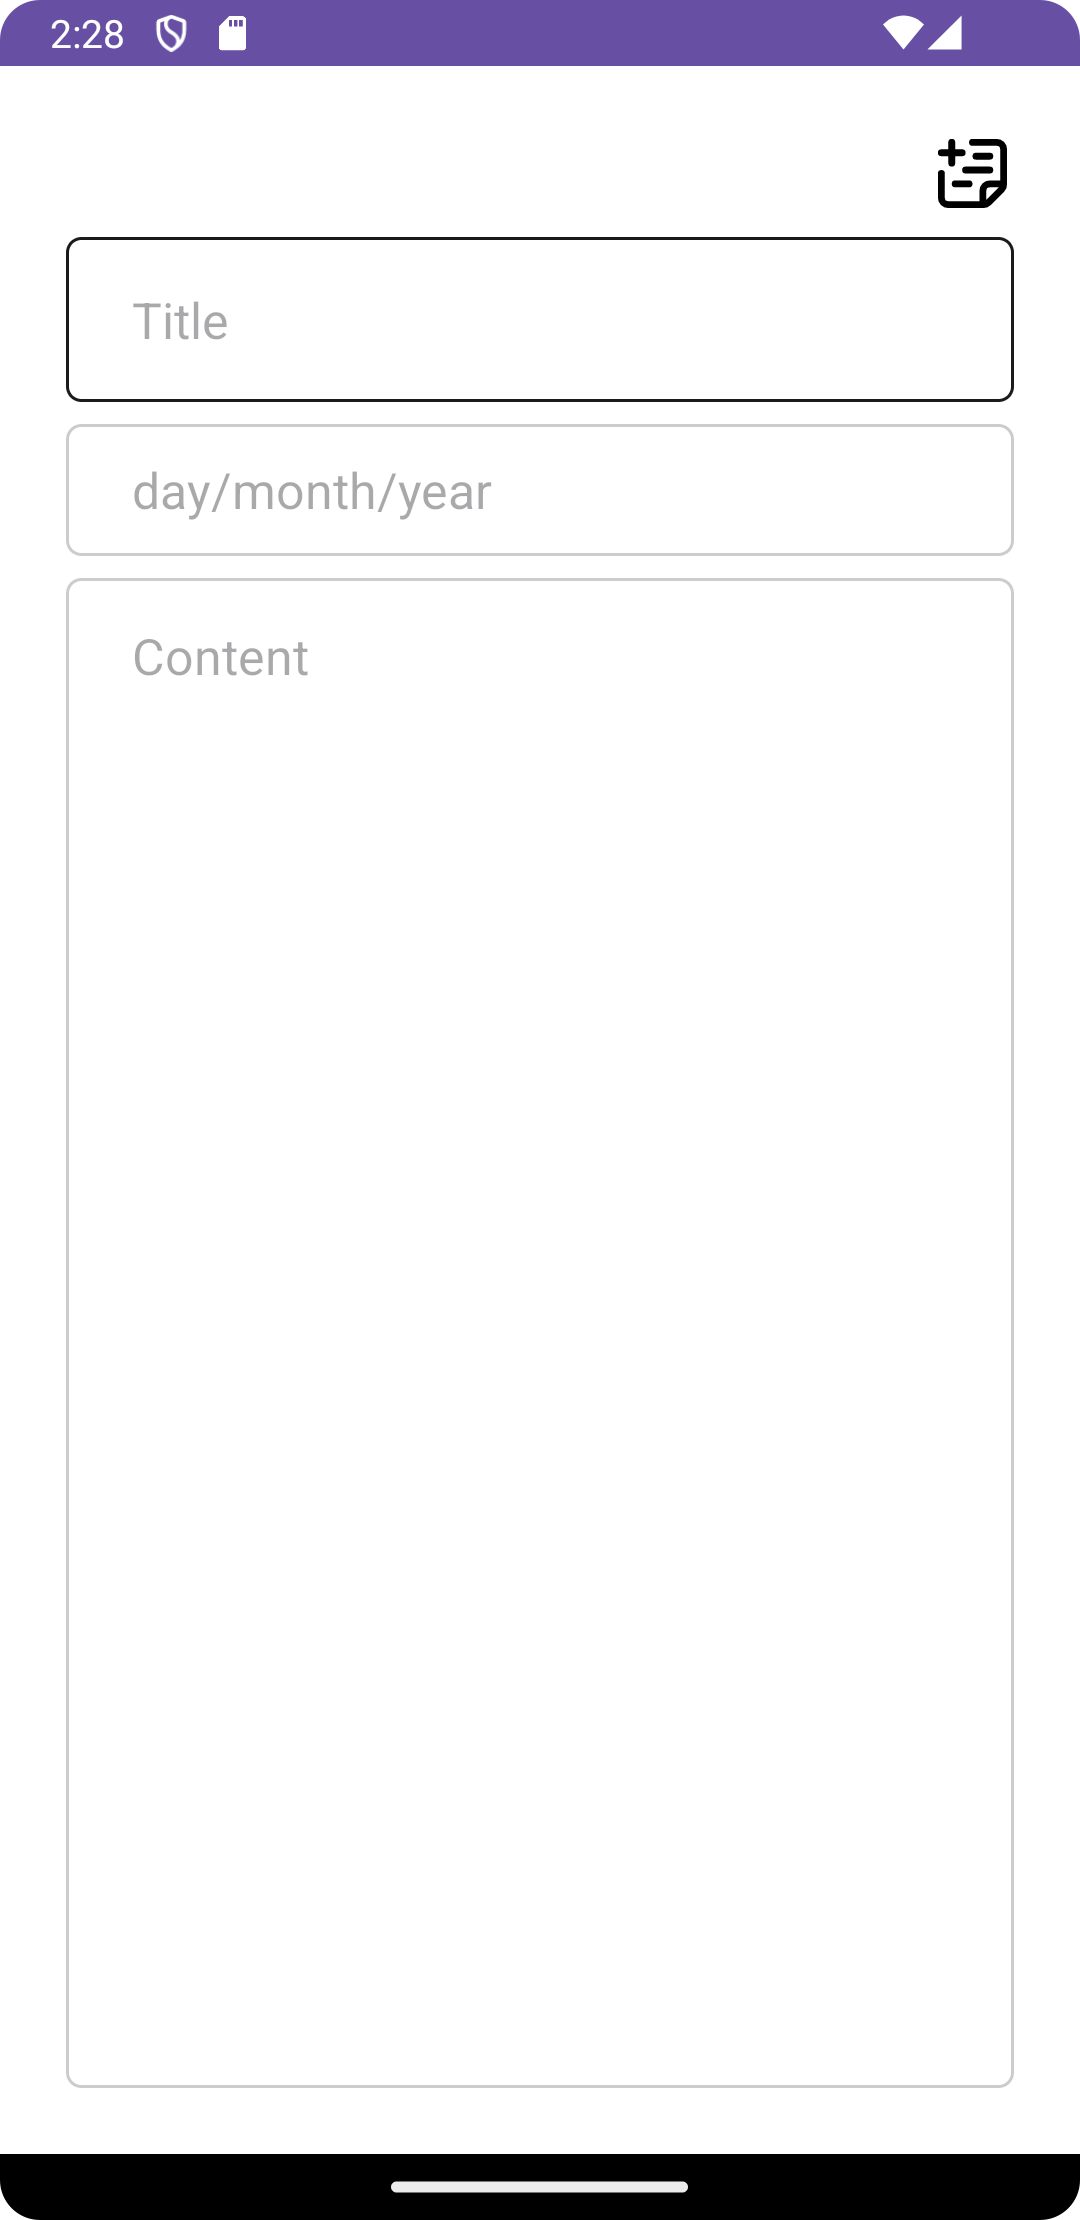
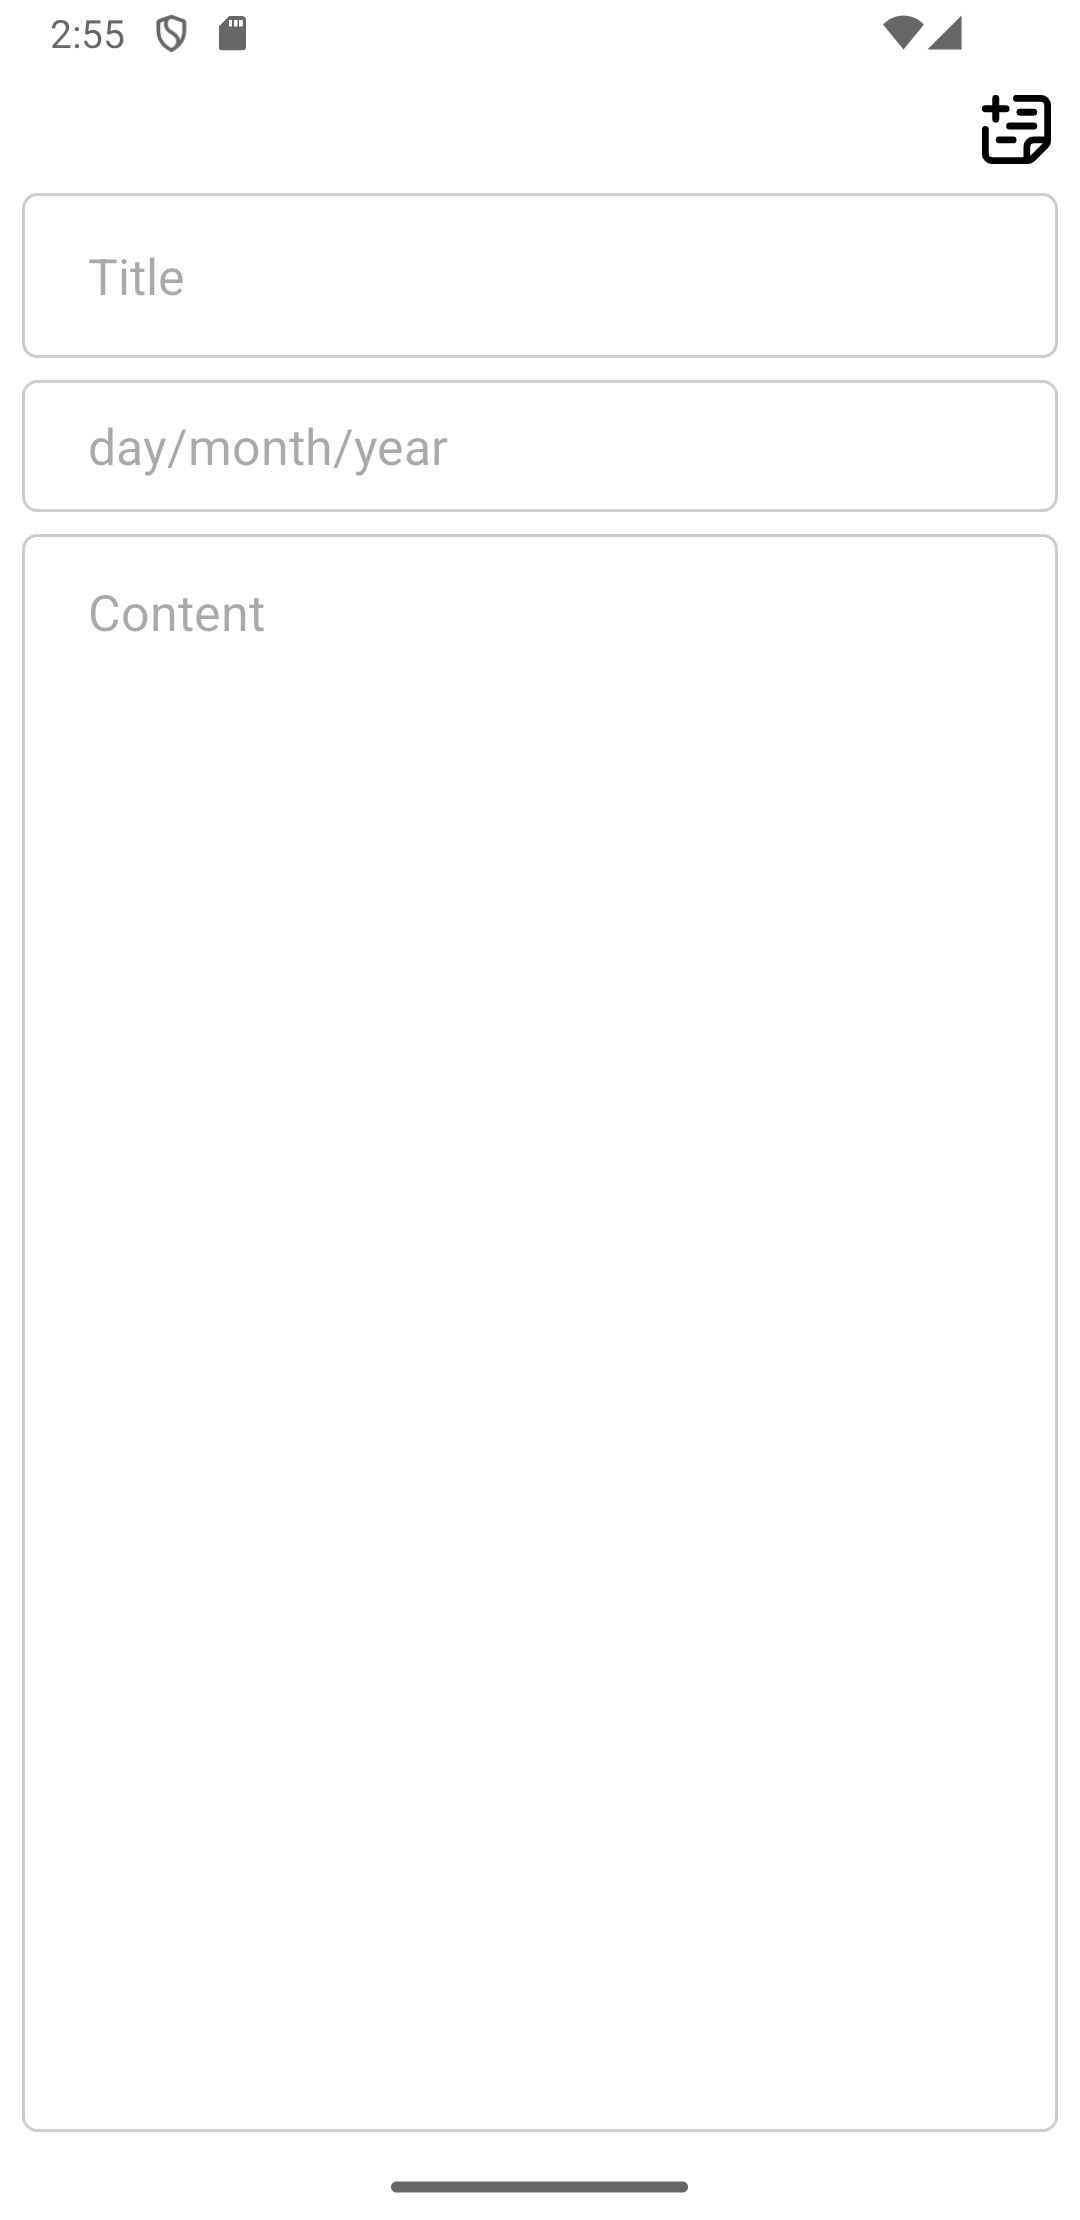
updated view

diff --git a/Odevler/Odev_10/app/src/main/java/com/bengisusahin/odev_10/view/AddNoteActivity.kt b/Odevler/Odev_10/app/src/main/java/com/bengisusahin/odev_10/view/AddNoteActivity.kt
@@ -4,8 +4,12 @@ import android.app.Activity
 import android.os.Bundle
 import android.util.Log
 import android.widget.Toast
+import androidx.activity.enableEdgeToEdge
 import androidx.appcompat.app.AppCompatActivity
+import androidx.core.view.ViewCompat
+import androidx.core.view.WindowInsetsCompat
 import androidx.recyclerview.widget.LinearLayoutManager
+import com.bengisusahin.odev_10.R
 import com.bengisusahin.odev_10.adapter.NoteAdapter
 import com.bengisusahin.odev_10.databinding.ActivityAddNoteBinding
 import com.bengisusahin.odev_10.models.Note
@@ -22,7 +26,13 @@ class AddNoteActivity : AppCompatActivity() {
     override fun onCreate(savedInstanceState: Bundle?) {
         super.onCreate(savedInstanceState)
         binding = ActivityAddNoteBinding.inflate(layoutInflater)
+        enableEdgeToEdge()
         setContentView(binding.root)
+        ViewCompat.setOnApplyWindowInsetsListener(findViewById(R.id.main)) { v, insets ->
+            val systemBars = insets.getInsets(WindowInsetsCompat.Type.systemBars())
+            v.setPadding(systemBars.left, systemBars.top, systemBars.right, systemBars.bottom)
+            insets
+        }
 
         noteService = NoteService(this)
         // get the userId from the intent that started this activity

diff --git a/Odevler/Odev_10/app/src/main/java/com/bengisusahin/odev_10/view/DetailActivity.kt b/Odevler/Odev_10/app/src/main/java/com/bengisusahin/odev_10/view/DetailActivity.kt
@@ -19,7 +19,13 @@ class DetailActivity : AppCompatActivity() {
     override fun onCreate(savedInstanceState: Bundle?) {
         super.onCreate(savedInstanceState)
         binding = ActivityDetailBinding.inflate(layoutInflater)
+        enableEdgeToEdge()
         setContentView(binding.root)
+        ViewCompat.setOnApplyWindowInsetsListener(findViewById(R.id.main)) { v, insets ->
+            val systemBars = insets.getInsets(WindowInsetsCompat.Type.systemBars())
+            v.setPadding(systemBars.left, systemBars.top, systemBars.right, systemBars.bottom)
+            insets
+        }
 
         noteService = NoteService(this)
 
